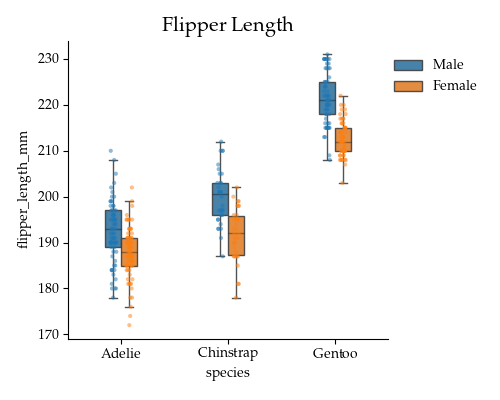
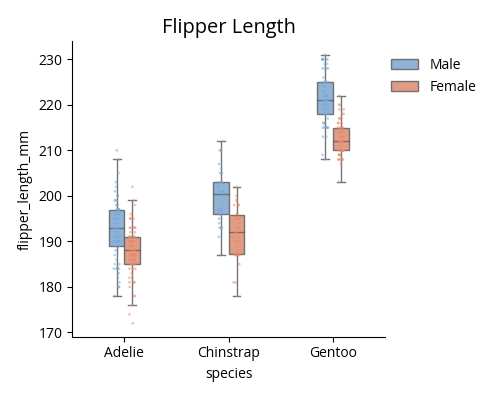
better defaults

diff --git a/betterplots/style.py b/betterplots/style.py
@@ -1,4 +1,6 @@
-from typing import Literal
+from typing import Optional
+
+import tol_colors as tc
 
 PALETTES = {
     "mw": ["#4B6584", "#7A6FAF", "#B99B52", "#5F8F7A", "#A45A6A", "#5B8FA8"],
@@ -14,20 +16,61 @@ PALETTES = {
         "#bcbd22",
         "#17becf",
     ],
+    **{f"tol_{name}": list(palette) for name, palette in tc.colorsets.items()},
 }
 
 
 def set_style(
-    usetex=True,
-    serif=True,
+    usetex=False,
+    serif=False,
     font_size=12,
     legend_font_size=10,
     label_size=10,
     tick_size=10,
-    colors: Literal["mw", "tab10", None] = "tab10",
+    colors: Optional[str] = "tol_light",
+    darkmode=False,
+    rc=None,
 ):
+    """Set global plot defaults for figures created with Matplotlib and Seaborn.
+
+    Font sizes for legends, labels, and ticks are independent of font_size.
+    Use darkmode for dark backgrounds and light text. Apply rc overrides last.
+    """
     import matplotlib as mpl
 
+    background = "#202020" if darkmode else "white"
+    foreground = "#eeeeee" if darkmode else "black"
+    mpl.rcParams.update(
+        {
+            "axes.facecolor": background,
+            "figure.facecolor": background,
+            "savefig.facecolor": "auto",
+            "savefig.edgecolor": "auto",
+            "text.color": foreground,
+            "axes.labelcolor": foreground,
+            "axes.edgecolor": foreground,
+            "axes.titlecolor": "auto",
+            "xtick.color": foreground,
+            "ytick.color": foreground,
+            "xtick.labelcolor": "inherit",
+            "ytick.labelcolor": "inherit",
+            "patch.edgecolor": foreground,
+            "grid.color": "#555555" if darkmode else "#b0b0b0",
+            "axes.grid": False,
+            "axes.spines.left": True,
+            "axes.spines.bottom": True,
+            "axes.spines.top": False,
+            "axes.spines.right": False,
+            "axes.linewidth": 0.8,
+            "xtick.direction": "out",
+            "ytick.direction": "out",
+            "xtick.top": False,
+            "ytick.right": False,
+            "legend.frameon": False,
+            "legend.labelcolor": None,
+            "legend.facecolor": "inherit",
+        }
+    )
     mpl.rc("text", usetex=usetex)
     mpl.rcParams["font.family"] = "serif" if serif else "sans-serif"
     mpl.rcParams["font.serif"] = ["DejaVu Serif"]
@@ -40,7 +83,7 @@ def set_style(
     mpl.rcParams["axes.titleweight"] = "semibold"
 
     if colors is None:
-        colors = "tab10"
+        colors = "tol_light"
     if colors not in PALETTES:
         raise ValueError(
             f"colors must be one of {list(PALETTES)} or None, got {colors!r}"
@@ -59,9 +102,5 @@ def set_style(
     else:
         mpl.rcParams["text.latex.preamble"] = ""
 
-    # xtick.major.size : 5
-    # xtick.minor.size : 3
-    # ytick.major.size : 5
-    # ytick.minor.size : 3
-    # axes.linewidth : 0.8
-    # legend.handlelength : 2.0
+    if rc is not None:
+        mpl.rcParams.update(rc)

diff --git a/demo/example.py b/demo/example.py
@@ -9,10 +9,9 @@ df = sns.load_dataset("penguins")
 
 
 plt.figure(figsize=(5, 4))
-boxstripplot(data=df, x="species", y="flipper_length_mm", hue="sex", size=3, width=0.3)
-sns.despine()
+boxstripplot(data=df, x="species", y="flipper_length_mm", hue="sex", width=0.3)
 plt.title("Flipper Length", fontweight="bold")
-plt.legend(loc=(1, 0.8), frameon=False)
+plt.legend(loc=(1, 0.8))
 plt.tight_layout()
 plt.savefig("../images/example.png")
 plt.show()

diff --git a/betterplots/boxstripplot.py b/betterplots/boxstripplot.py
@@ -147,7 +147,7 @@ def boxstripplot(
         ax = plt.gca()
 
     if palette is None:
-        palette = sns.color_palette("tab10")
+        palette = sns.color_palette()
 
     if box_kwargs is None:
         box_kwargs = {}

diff --git a/README.md b/README.md
@@ -1,26 +1,77 @@
 
 
-Some helper functions for creating decent plots (based on seaborn)
+Some helper functions for creating slightly better looking plots (based on seaborn)
+
+
+```python
+
+import betterplots as bp
+bp.set_style()
+
+# use seaborn or maptlotlib to create plots
+
+```
+
+![Default light-mode plots](demo/demo_light.png)
 
 
 ## Installation
 
 `pip install git+https://github.com/maweigert/betterplots`
 
+Requires Python 3.9 or newer. Dependencies, including `tol-colors`, are installed
+automatically.
 
-### LaTeX
+### Styling
 
-`set_style()` uses LaTeX by default, with NewPX for serif text and mathematics
-and Open Sans for sans-serif text. Install a TeX distribution that includes the
+Call `set_style()` before creating figures. It uses sans-serif text without
+LaTeX, with Open Sans and DejaVu Sans as the fallback. New Matplotlib and Seaborn
+plots have white backgrounds, no grid, no top or right spines, and frameless
+legends. Explicit plot arguments can override these defaults.
+
+Categorical colors default to `tol_light`. Use `set_style(colors="mw")` for the
+custom palette or `set_style(colors="tol_muted")` for Paul Tol's muted palette.
+`boxstripplot()` uses the active palette unless an explicit `palette` is passed.
+All categorical palettes from `tol-colors` are available with the `tol_` prefix,
+including `tol_bright`, `tol_vibrant`, `tol_high_contrast`,
+`tol_medium_contrast`, `tol_pale`, `tol_dark`, `tol_light`, and `tol_land_cover`.
+Access the color lists through `betterplots.PALETTES` to pass them explicitly
+to Seaborn, for example `sns.barplot(..., palette=PALETTES["tol_muted"])`.
+
+Use `set_style(darkmode=True)` for dark backgrounds with light text, ticks,
+and spines. Calling `set_style()` again restores the light defaults for new
+figures.
+
+Font sizes can be set independently. Pass `rc` for additional Matplotlib
+settings, which take precedence over the style defaults:
+
+```python
+set_style(
+    darkmode=True,
+    font_size=14,
+    label_size=12,
+    tick_size=11,
+    legend_font_size=11,
+    rc={"font.sans-serif": ["DejaVu Sans"], "lines.linewidth": 2},
+)
+```
+
+Use `set_style(serif=True)` for DejaVu Serif, or `set_style(usetex=True)` to
+enable LaTeX with NewPX for serif text and mathematics and Open Sans for
+sans-serif text. Install a TeX distribution that includes the
 `newpx`, `opensans`, `mathtools`, and `bm` packages. Matplotlib may require
 additional backend tools such as `dvipng` or Ghostscript.
 
-Use `set_style(usetex=False)` to render without LaTeX. Matplotlib then uses
-DejaVu Serif and Open Sans, with DejaVu Sans as the fallback when Open Sans is
-not installed.
-
 ## Examples
 
+
+### Dark mode with LaTeX
+
+```python
+set_style(darkmode=True, usetex=True, serif=True)
+```
+
+![Dark-mode plots with LaTeX and serif fonts](demo/demo_dark.png)
 
 ### `boxstripplot`
 
@@ -40,9 +91,8 @@ df = sns.load_dataset("penguins")
 
 plt.figure(figsize=(5, 4))
 boxstripplot(data=df, x='species', y='flipper_length_mm', hue='sex', width=.3)
-sns.despine()
 plt.title('Flipper Length', fontweight="bold")
-plt.legend(loc=(1,.8), frameon=False)
+plt.legend(loc=(1,.8))
 plt.tight_layout()
 plt.show()
 
